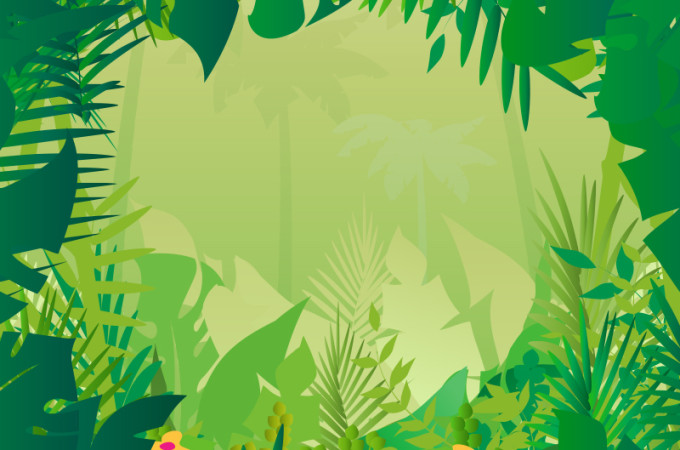
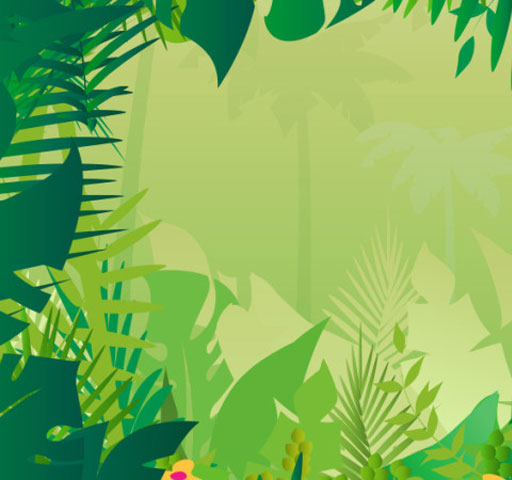
final touches to game css

diff --git a/css/style.css b/css/style.css
@@ -23,17 +23,18 @@ canvas {
 #instructions {
     float: left;
     font-family: sans-serif;
-    color: #757575;
+    font-size: 2em;
+    color: #fff;
 }
 
 #score {
     float: right;
-    color: #000;
+    color: #fff;
     font-size: 2em;
 }
 
-.key {
-    color: #aaffdd;
+.clear {
+    clear: both;
 }
 
 #game-over,
@@ -67,5 +68,35 @@ canvas {
 }
 
 #game-over button {
+    color: #3a3939;
+    background: #fff;
+    box-shadow: inset 0 0 0 1px #fff;
     font-size: 1.5em;
+    width: 100%;
+
+    border: 0;
+    text-shadow: 0 0 0.5px rgba(255,255,255,0.25);
+    cursor: pointer;
+    text-decoration: none;
+    outline: 0;
+    padding: 1em 3em 1em 3em;
+    font-weight: 400;
+    -moz-transition: background-color 0.35s ease-in-out, color 0.35s ease-in-out;
+    -webkit-transition: background-color 0.35s ease-in-out, color 0.35s ease-in-out;
+    -o-transition: background-color 0.35s ease-in-out, color 0.35s ease-in-out;
+    -ms-transition: background-color 0.35s ease-in-out, color 0.35s ease-in-out;
+    transition: background-color 0.35s ease-in-out, color 0.35s ease-in-out;
+}
+
+#game-over button:hover {
+    background: rgba(255,255,255,0.1);
+    color: #fff !important;
+    text-shadow: 0 0 0.5px rgba(255,255,255,0.25) !important;
+}
+
+
+.to-site {
+    position: absolute;
+    top: 20px;
+    left: -60px;
 }

diff --git a/game.html b/game.html
@@ -6,21 +6,18 @@
     <link rel="stylesheet" href="css/style.css">
 </head>
 <body>
-    <header></header>
-	<div id="game-over-overlay">
-    </div>
+    <div id="game-over-overlay"></div>
     <div id="game-over">
         <h1>GAME OVER</h1>
         <button id="play-again">Play Again</button>
     </div>
-	
-	 <div class="wrapper">
-		  <div id="instructions">
-		  </div>
-		  <div id="score">
-		  </div>
-	  </div>
-      <a href="index.html" style="margin-left: 20px;" class="button style2 scrolly scrolly-centered">Back to the site</a>
+
+    <div class="wrapper">
+        <div id="instructions">Score</div>
+        <div id="score"></div>
+        <div class="clear"></div>
+    </div>
+    <a href="index.html" class="button to-site style2 scrolly scrolly-centered">Back to the site</a>
     <script type="text/javascript" src="js/resources.js"></script>
     <script type="text/javascript" src="js/input.js"></script>
     <script type="text/javascript" src="js/sprite.js"></script>

diff --git a/js/app.js b/js/app.js
@@ -30,7 +30,7 @@ function main() {
 };
 
 function init() {
-    terrainPattern = ctx.createPattern(resources.get('img/jungle.jpg'), 'repeat');
+    terrainPattern = ctx.createPattern(resources.get('img/jungle.jpg'), 'no-repeat');
 
     document.getElementById('play-again').addEventListener('click', function () {
         reset();
@@ -86,7 +86,7 @@ function update(dt)
         enemies.push({
             pos: [canvas.width,
                   Math.random() * (canvas.height - 39)],
-            sprite: new Sprite('img/sprites1.png', [0, 65], [85, 50],
+            sprite: new Sprite('img/sprites1.png', [0, 65], [85, 52],
                                6, [0, 1, 2, 1, 0])
         });
     }
